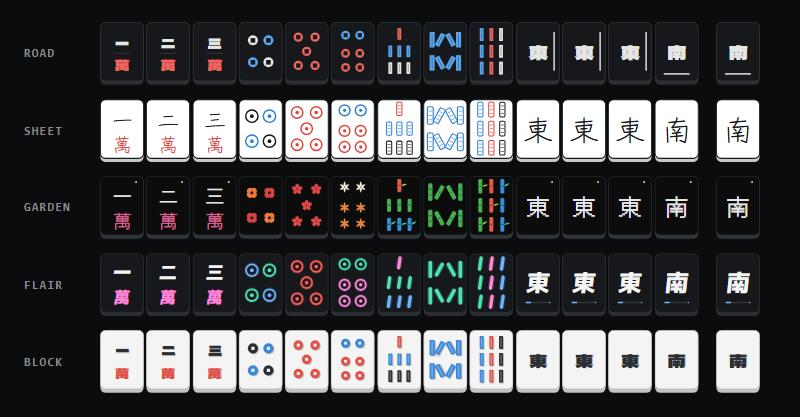
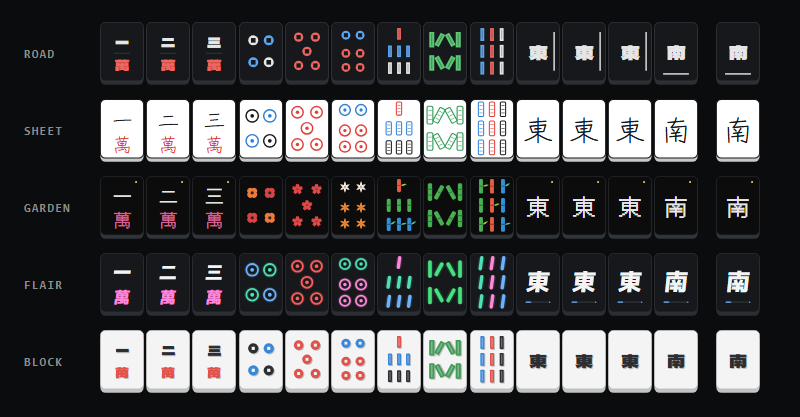
All-green 2, 3, 4, 6 and 8 sou in every set (v1.9.0)
The 2, 3, 4, 6 and 8 sou are now one colour, each set's own green (the
same green as its Green dragon), so a ryuuiisou (all green) hand looks
all green. They used to mix two colours, blue with white, black or teal.
The 1, 5, 7 and 9 sou keep their colours. Garden's 8 sou was already all
green and is unchanged; every other tile is byte-identical to v1.8.0.
README, preview.png and all-tiles.png updated to match.

diff --git a/lines-skin.js b/lines-skin.js
@@ -1,4 +1,4 @@
-/*! lines-tiles.js 1.8.0 -- animated mahjong tiles in the style of Lines. No dependencies.
+/*! lines-tiles.js 1.9.0 -- animated mahjong tiles in the style of Lines. No dependencies.
  *
  *   <script src="lines-tiles.js"></script>
  *   <lines-tile set="flair" tile="5p"></lines-tile>                    one tile
@@ -33,7 +33,7 @@
 (function (root) {
   "use strict";
 
-  var VERSION = "1.8.0";
+  var VERSION = "1.9.0";
   var KANJI = ["\u4e00", "\u4e8c", "\u4e09", "\u56db", "\u4e94", "\u516d", "\u4e03", "\u516b", "\u4e5d"];
   var HON = ["\u6771", "\u5357", "\u897f", "\u5317", "\u767d", "\u767c", "\u4e2d"];
   var MAN = "\u842c";
@@ -122,6 +122,10 @@
   }
   function delay(i, period) { return "animation-delay:-" + n2((i * 0.37) % (period || 2)) + "s"; }
   function roleColour(c, role, red) { return red ? c.red : c.roles[role]; }
+  // The 2, 3, 4, 6 and 8 sou are all green, in the set's own green (its Green dragon's), so that with
+  // the Green dragon they make ryuuiisou ("all green"); the other sou keep their traditional colours.
+  var ALL_GREEN = { 2: true, 3: true, 4: true, 6: true, 8: true };
+  function stickColour(c, t, role) { return t.red ? c.red : ALL_GREEN[t.n] ? c.green : c.roles[role]; }
   function E(cx, cy, rx, ry, o) { o = o || {}; return "<ellipse" + at(merge({ cx: cx, cy: cy, rx: rx, ry: ry }, common(o))) + "/>"; }
   // A stick from its lower end (x1, y1) to its upper end (x2, y2), as [x, y, length, role, turn, width].
   function stickAt(x1, y1, x2, y2, role, width) {
@@ -192,7 +196,7 @@
     inset: 0.88,                      // the marks are drawn at 88% around the centre: room to breathe
     rim: 0.4,                         // opacity of the light that laps the rim
     c: { face: "#16181b", edge: "#2b2e33", border: "#3a3d42", bw: 1, backFace: "#16181b",
-         roles: { B: "#e6e6e6", G: "#5aa7f0", R: "#ef6560" }, red: "#ef6560", ink: "#e6e6e6", shrub: "#4f9a5a" },
+         roles: { B: "#e6e6e6", G: "#5aa7f0", R: "#ef6560" }, red: "#ef6560", green: "#5bc874", ink: "#e6e6e6", shrub: "#4f9a5a" },
     p: function (t, c) {
       if (t.n === 1) {
         var col = t.red ? c.red : c.ink, dx = n2(Math.sqrt(21.5 * 21.5 - 12 * 12));
@@ -211,7 +215,7 @@
             bib: c.face, beak: "#efc84a", eye: c.face, legs: c.ink, feet: c.red }), { cls: "lt-hop" });   // a dark beak vanished into the tile
       }
       return SOU[t.n].map(function (b) {
-        var col = roleColour(c, b[3], t.red), x = b[0], y = b[1], h = b[2];
+        var col = stickColour(c, t, b[3]), x = b[0], y = b[1], h = b[2];
         var bar = R(x - 3, y - h / 2, 6, h, { fill: col }) +
           P("M " + x + " " + n2(y - h / 2 + 2.5) + " V " + n2(y + h / 2 - 2.5), { stroke: c.face, sw: 0.8, op: 0.6 });
         return placeStick(bar, b);
@@ -228,7 +232,7 @@
         var d = ["M 55 10 V 70", "M 10 75 H 50", "M 5 10 V 70", "M 10 5 H 50"][n - 1];
         return P(d, { stroke: c.ink, sw: 2.6, op: 0.85 }) + T(30, 40, HON[n - 1], { font: FONT.dela, size: 29, fill: c.ink });
       }
-      var col = n === 6 ? "#5bc874" : c.red;
+      var col = n === 6 ? c.green : c.red;
       return T(30, 38, HON[n - 1], { font: FONT.dela, size: 29, fill: col }) + P("M 19 66 H 41", { stroke: col, sw: 1.4, op: 0.6 });
     },
     back: function (c) {
@@ -242,7 +246,7 @@
   S.sheet = {
     fonts: ["zen"],
     c: { face: "#ffffff", edge: "#c9c9c9", border: "#16181b", bw: 1.4,
-         roles: { B: "#16181b", G: "#2f7fd6", R: "#e0403a" }, red: "#e0403a" },
+         roles: { B: "#16181b", G: "#2f7fd6", R: "#e0403a" }, red: "#e0403a", green: "#2e9b55" },
     p: function (t, c) {
       if (t.n === 1) {
         return G(C(30, 40, 18, { stroke: "#16181b", sw: 2.4 }) + C(30, 40, 11, { stroke: "#2f7fd6", sw: 1.8 }) +
@@ -262,7 +266,7 @@
             bib: ink, beak: ink, eye: ink, legs: ink, feet: c.red }, { line: ink, lw: 1.2 }), { cls: "lt-boil" });
       }
       return SOU[t.n].map(function (b, i) {
-        var col = roleColour(c, b[3], t.red), x = b[0], y = b[1], h = b[2];
+        var col = stickColour(c, t, b[3]), x = b[0], y = b[1], h = b[2];
         var inner = R(x - 3.6, y - h / 2, 7.2, h, { rx: 1.6, stroke: col, sw: 1.4 });
         for (var k = -1; k <= 1; k++) inner += R(x - 2.2, y + k * h / 4 - 0.4, 4.4, 0.8, { fill: col });
         inner = G(inner, { cls: "lt-boil", st: delay(i, 0.66) });
@@ -275,7 +279,7 @@
         G(T(30, 61, MAN, { font: FONT.zen, size: 26, fill: c.red }), { cls: "lt-boil", st: "animation-delay:-.3s" });
     },
     z: function (t, c) {
-      var col = t.n === 6 ? "#2e9b55" : t.n === 7 ? c.red : "#16181b";
+      var col = t.n === 6 ? c.green : t.n === 7 ? c.red : "#16181b";
       return G(T(30, 41, HON[t.n - 1], { font: FONT.zen, size: 38, fill: col }), { cls: "lt-boil" });
     },
     back: function () {
@@ -360,7 +364,7 @@
   S.garden = {
     fonts: ["dot"],
     c: { face: "#0c0c0c", edge: "#31353a", border: "#2b2e33", bw: 1, backFace: "#101a14",
-         roles: { B: "#7b84d6", G: "#4fae86", R: "#d0628f" }, red: "#e04848", centre: "#f0d27a",
+         roles: { B: "#7b84d6", G: "#4fae86", R: "#d0628f" }, red: "#e04848", green: "#6fd07f", centre: "#f0d27a",
          // pin n -> [flower, colour for each traditional place B / G / R]; flat colours, no shine
          bed: {
            1: ["sunflower", { B: "#f1b52e", G: "#f1b52e", R: "#f1b52e" }],
@@ -394,7 +398,8 @@
             feet: c.red }), { cls: "lt-hop" });
       }
       return SOU[t.n].map(function (b, i) {
-        var col = t.red ? c.stem.red : c.stem[b[3]], x = b[0], y = b[1], h = b[2], top = y - h / 2;
+        // the all-green sou (2 3 4 6 8) are all green stalks
+        var col = t.red ? c.stem.red : c.stem[ALL_GREEN[t.n] ? "G" : b[3]], x = b[0], y = b[1], h = b[2], top = y - h / 2;
         var s = R(x - 2.7, top, 5.4, h, { rx: 1.8, fill: col[0] }) +
           R(x - 1.6, top + 1.4, 1.1, h - 2.8, { rx: 0.55, fill: col[2], op: 0.15 });  // a faint light down one side
         var joints = h >= 22 ? 2 : 1;
@@ -416,7 +421,7 @@
         R(48, 7, 2.4, 2.4, { fill: c.centre, cls: "lt-twinkle" });
     },
     z: function (t, c) {
-      var col = t.n === 6 ? "#6fd07f" : t.n === 7 ? c.red : "#e8e8e8";
+      var col = t.n === 6 ? c.green : t.n === 7 ? c.red : "#e8e8e8";
       return T(30, 41, HON[t.n - 1], { font: FONT.dot, size: 32, fill: col }) + R(48, 7, 2.4, 2.4, { fill: c.centre, cls: "lt-twinkle" });
     },
     back: function () {               // bamboo leaves on dark green
@@ -439,7 +444,7 @@
     fonts: ["mplus"],
     sheen: 0.07,                      // opacity of the light band that crosses the tile
     c: { face: "#16181b", edge: "#2a2d33", border: "#31353a", bw: 1,
-         roles: { B: "#6cb2ff", G: "#4fe0b6", R: "#ff86d9" }, red: "#ff5c5c", ink: "#f4f4f4", accent: "#8fdcff" },
+         roles: { B: "#6cb2ff", G: "#4fe0b6", R: "#ff86d9" }, red: "#ff5c5c", green: "#46e07f", ink: "#f4f4f4", accent: "#8fdcff" },
     p: function (t, c) {
       function ring(x, y, r, col, sw) {
         return C(x, y, r, { stroke: col, sw: sw + 3, op: 0.16 }) + C(x, y, r, { stroke: col, sw: sw });
@@ -461,7 +466,7 @@
             bib: c.roles.R, beak: "#efc84a", eye: c.accent, legs: c.accent, feet: c.red }, { line: c.accent, lw: 1.6, glow: c.accent }), { cls: "lt-hop" });
       }
       return SOU[t.n].map(function (b) {
-        var col = roleColour(c, b[3], t.red), x = b[0], y = b[1], h = b[2];
+        var col = stickColour(c, t, b[3]), x = b[0], y = b[1], h = b[2];
         var lean = t.n === 8 ? b[4] : b[4] || 8;   // a slight forward lean; 8 sou keeps its real shape
         return placeStick(R(x - 4.2, y - h / 2, 8.4, h, { rx: 4.2, fill: col, op: 0.16 }) +
           R(x - 2.3, y - h / 2, 4.6, h, { rx: 2.3, fill: col }), t.n === 8 ? b.slice(0, 5).concat(1.1) : b, lean);   // 8 sou: slimmer x1.1
@@ -472,7 +477,7 @@
         T(30, 60, MAN, { font: FONT.mplus, weight: 800, size: 22, fill: c.roles.R, tf: skew(30, 60, -6) });
     },
     z: function (t, c) {
-      var col = t.n === 6 ? "#46e07f" : t.n === 7 ? c.red : c.ink, line = t.n <= 4 ? c.roles.B : col;
+      var col = t.n === 6 ? c.green : t.n === 7 ? c.red : c.ink, line = t.n <= 4 ? c.roles.B : col;
       return T(30, 39, HON[t.n - 1], { font: FONT.mplus, weight: 800, size: 31, fill: col, tf: skew(30, 39, -6) }) +
         P("M 14 67 H 46", { stroke: "#31353a", sw: 2, lc: "round" }) +
         P("M 14 67 H 46", { stroke: line, sw: 2, lc: "round", pl: 100, dash: "18 82", cls: "lt-lap" });
@@ -493,7 +498,7 @@
     fonts: ["dela"],
     inset: 0.88,
     c: { face: "#f4f4f4", edge: "#c4c4c4", border: "#b4b4b4", bw: 1, backFace: "#cfd3d6", side: "#bdbdbd", depth: 1.5,
-         roles: { B: "#2b2e33", G: "#3a86d8", R: "#e0524a" }, red: "#e0524a" },
+         roles: { B: "#2b2e33", G: "#3a86d8", R: "#e0524a" }, red: "#e0524a", green: "#3f9a55" },
     p: function (t, c) {
       var d = c.depth, sides = "", tops = "";
       var list = t.n === 1 ? [[30, 40, 17, t.red ? "R" : "B"]] : PIN[t.n];
@@ -517,7 +522,7 @@
       }
       var sides = "", tops = "";
       SOU[t.n].forEach(function (b) {
-        var col = roleColour(c, b[3], t.red), x = b[0], y = b[1], h = b[2];
+        var col = stickColour(c, t, b[3]), x = b[0], y = b[1], h = b[2];
         sides += placeStick(R(x - 3.1 + d, y - h / 2 + d, 6.2, h, { rx: 1, fill: c.side }), b);
         tops += placeStick(R(x - 3.1, y - h / 2, 6.2, h, { rx: 1, fill: col }) +
           R(x - 1, y - h / 2 + 2, 2, h - 4, { rx: 1, fill: "#ffffff", op: 0.3 }), b);
@@ -533,7 +538,7 @@
     },
     z: function (t, c) {
       var d = 1.2;
-      var col = t.n === 6 ? "#3f9a55" : t.n === 7 ? c.red : c.roles.B;
+      var col = t.n === 6 ? c.green : t.n === 7 ? c.red : c.roles.B;
       return G(T(30 + d, 41 + d, HON[t.n - 1], { font: FONT.dela, size: 28, fill: c.side }), { cls: "lt-breath" }) +
         T(30, 41, HON[t.n - 1], { font: FONT.dela, size: 28, fill: col });
     },

diff --git a/lines-tiles.js b/lines-tiles.js
@@ -1,4 +1,4 @@
-/*! lines-tiles.js 1.8.0 -- animated mahjong tiles in the style of Lines. No dependencies.
+/*! lines-tiles.js 1.9.0 -- animated mahjong tiles in the style of Lines. No dependencies.
  *
  *   <script src="lines-tiles.js"></script>
  *   <lines-tile set="flair" tile="5p"></lines-tile>                    one tile
@@ -33,7 +33,7 @@
 (function (root) {
   "use strict";
 
-  var VERSION = "1.8.0";
+  var VERSION = "1.9.0";
   var KANJI = ["\u4e00", "\u4e8c", "\u4e09", "\u56db", "\u4e94", "\u516d", "\u4e03", "\u516b", "\u4e5d"];
   var HON = ["\u6771", "\u5357", "\u897f", "\u5317", "\u767d", "\u767c", "\u4e2d"];
   var MAN = "\u842c";
@@ -122,6 +122,10 @@
   }
   function delay(i, period) { return "animation-delay:-" + n2((i * 0.37) % (period || 2)) + "s"; }
   function roleColour(c, role, red) { return red ? c.red : c.roles[role]; }
+  // The 2, 3, 4, 6 and 8 sou are all green, in the set's own green (its Green dragon's), so that with
+  // the Green dragon they make ryuuiisou ("all green"); the other sou keep their traditional colours.
+  var ALL_GREEN = { 2: true, 3: true, 4: true, 6: true, 8: true };
+  function stickColour(c, t, role) { return t.red ? c.red : ALL_GREEN[t.n] ? c.green : c.roles[role]; }
   function E(cx, cy, rx, ry, o) { o = o || {}; return "<ellipse" + at(merge({ cx: cx, cy: cy, rx: rx, ry: ry }, common(o))) + "/>"; }
   // A stick from its lower end (x1, y1) to its upper end (x2, y2), as [x, y, length, role, turn, width].
   function stickAt(x1, y1, x2, y2, role, width) {
@@ -192,7 +196,7 @@
     inset: 0.88,                      // the marks are drawn at 88% around the centre: room to breathe
     rim: 0.4,                         // opacity of the light that laps the rim
     c: { face: "#16181b", edge: "#2b2e33", border: "#3a3d42", bw: 1, backFace: "#16181b",
-         roles: { B: "#e6e6e6", G: "#5aa7f0", R: "#ef6560" }, red: "#ef6560", ink: "#e6e6e6", shrub: "#4f9a5a" },
+         roles: { B: "#e6e6e6", G: "#5aa7f0", R: "#ef6560" }, red: "#ef6560", green: "#5bc874", ink: "#e6e6e6", shrub: "#4f9a5a" },
     p: function (t, c) {
       if (t.n === 1) {
         var col = t.red ? c.red : c.ink, dx = n2(Math.sqrt(21.5 * 21.5 - 12 * 12));
@@ -211,7 +215,7 @@
             bib: c.face, beak: "#efc84a", eye: c.face, legs: c.ink, feet: c.red }), { cls: "lt-hop" });   // a dark beak vanished into the tile
       }
       return SOU[t.n].map(function (b) {
-        var col = roleColour(c, b[3], t.red), x = b[0], y = b[1], h = b[2];
+        var col = stickColour(c, t, b[3]), x = b[0], y = b[1], h = b[2];
         var bar = R(x - 3, y - h / 2, 6, h, { fill: col }) +
           P("M " + x + " " + n2(y - h / 2 + 2.5) + " V " + n2(y + h / 2 - 2.5), { stroke: c.face, sw: 0.8, op: 0.6 });
         return placeStick(bar, b);
@@ -228,7 +232,7 @@
         var d = ["M 55 10 V 70", "M 10 75 H 50", "M 5 10 V 70", "M 10 5 H 50"][n - 1];
         return P(d, { stroke: c.ink, sw: 2.6, op: 0.85 }) + T(30, 40, HON[n - 1], { font: FONT.dela, size: 29, fill: c.ink });
       }
-      var col = n === 6 ? "#5bc874" : c.red;
+      var col = n === 6 ? c.green : c.red;
       return T(30, 38, HON[n - 1], { font: FONT.dela, size: 29, fill: col }) + P("M 19 66 H 41", { stroke: col, sw: 1.4, op: 0.6 });
     },
     back: function (c) {
@@ -242,7 +246,7 @@
   S.sheet = {
     fonts: ["zen"],
     c: { face: "#ffffff", edge: "#c9c9c9", border: "#16181b", bw: 1.4,
-         roles: { B: "#16181b", G: "#2f7fd6", R: "#e0403a" }, red: "#e0403a" },
+         roles: { B: "#16181b", G: "#2f7fd6", R: "#e0403a" }, red: "#e0403a", green: "#2e9b55" },
     p: function (t, c) {
       if (t.n === 1) {
         return G(C(30, 40, 18, { stroke: "#16181b", sw: 2.4 }) + C(30, 40, 11, { stroke: "#2f7fd6", sw: 1.8 }) +
@@ -262,7 +266,7 @@
             bib: ink, beak: ink, eye: ink, legs: ink, feet: c.red }, { line: ink, lw: 1.2 }), { cls: "lt-boil" });
       }
       return SOU[t.n].map(function (b, i) {
-        var col = roleColour(c, b[3], t.red), x = b[0], y = b[1], h = b[2];
+        var col = stickColour(c, t, b[3]), x = b[0], y = b[1], h = b[2];
         var inner = R(x - 3.6, y - h / 2, 7.2, h, { rx: 1.6, stroke: col, sw: 1.4 });
         for (var k = -1; k <= 1; k++) inner += R(x - 2.2, y + k * h / 4 - 0.4, 4.4, 0.8, { fill: col });
         inner = G(inner, { cls: "lt-boil", st: delay(i, 0.66) });
@@ -275,7 +279,7 @@
         G(T(30, 61, MAN, { font: FONT.zen, size: 26, fill: c.red }), { cls: "lt-boil", st: "animation-delay:-.3s" });
     },
     z: function (t, c) {
-      var col = t.n === 6 ? "#2e9b55" : t.n === 7 ? c.red : "#16181b";
+      var col = t.n === 6 ? c.green : t.n === 7 ? c.red : "#16181b";
       return G(T(30, 41, HON[t.n - 1], { font: FONT.zen, size: 38, fill: col }), { cls: "lt-boil" });
     },
     back: function () {
@@ -360,7 +364,7 @@
   S.garden = {
     fonts: ["dot"],
     c: { face: "#0c0c0c", edge: "#31353a", border: "#2b2e33", bw: 1, backFace: "#101a14",
-         roles: { B: "#7b84d6", G: "#4fae86", R: "#d0628f" }, red: "#e04848", centre: "#f0d27a",
+         roles: { B: "#7b84d6", G: "#4fae86", R: "#d0628f" }, red: "#e04848", green: "#6fd07f", centre: "#f0d27a",
          // pin n -> [flower, colour for each traditional place B / G / R]; flat colours, no shine
          bed: {
            1: ["sunflower", { B: "#f1b52e", G: "#f1b52e", R: "#f1b52e" }],
@@ -394,7 +398,8 @@
             feet: c.red }), { cls: "lt-hop" });
       }
       return SOU[t.n].map(function (b, i) {
-        var col = t.red ? c.stem.red : c.stem[b[3]], x = b[0], y = b[1], h = b[2], top = y - h / 2;
+        // the all-green sou (2 3 4 6 8) are all green stalks
+        var col = t.red ? c.stem.red : c.stem[ALL_GREEN[t.n] ? "G" : b[3]], x = b[0], y = b[1], h = b[2], top = y - h / 2;
         var s = R(x - 2.7, top, 5.4, h, { rx: 1.8, fill: col[0] }) +
           R(x - 1.6, top + 1.4, 1.1, h - 2.8, { rx: 0.55, fill: col[2], op: 0.15 });  // a faint light down one side
         var joints = h >= 22 ? 2 : 1;
@@ -416,7 +421,7 @@
         R(48, 7, 2.4, 2.4, { fill: c.centre, cls: "lt-twinkle" });
     },
     z: function (t, c) {
-      var col = t.n === 6 ? "#6fd07f" : t.n === 7 ? c.red : "#e8e8e8";
+      var col = t.n === 6 ? c.green : t.n === 7 ? c.red : "#e8e8e8";
       return T(30, 41, HON[t.n - 1], { font: FONT.dot, size: 32, fill: col }) + R(48, 7, 2.4, 2.4, { fill: c.centre, cls: "lt-twinkle" });
     },
     back: function () {               // bamboo leaves on dark green
@@ -439,7 +444,7 @@
     fonts: ["mplus"],
     sheen: 0.07,                      // opacity of the light band that crosses the tile
     c: { face: "#16181b", edge: "#2a2d33", border: "#31353a", bw: 1,
-         roles: { B: "#6cb2ff", G: "#4fe0b6", R: "#ff86d9" }, red: "#ff5c5c", ink: "#f4f4f4", accent: "#8fdcff" },
+         roles: { B: "#6cb2ff", G: "#4fe0b6", R: "#ff86d9" }, red: "#ff5c5c", green: "#46e07f", ink: "#f4f4f4", accent: "#8fdcff" },
     p: function (t, c) {
       function ring(x, y, r, col, sw) {
         return C(x, y, r, { stroke: col, sw: sw + 3, op: 0.16 }) + C(x, y, r, { stroke: col, sw: sw });
@@ -461,7 +466,7 @@
             bib: c.roles.R, beak: "#efc84a", eye: c.accent, legs: c.accent, feet: c.red }, { line: c.accent, lw: 1.6, glow: c.accent }), { cls: "lt-hop" });
       }
       return SOU[t.n].map(function (b) {
-        var col = roleColour(c, b[3], t.red), x = b[0], y = b[1], h = b[2];
+        var col = stickColour(c, t, b[3]), x = b[0], y = b[1], h = b[2];
         var lean = t.n === 8 ? b[4] : b[4] || 8;   // a slight forward lean; 8 sou keeps its real shape
         return placeStick(R(x - 4.2, y - h / 2, 8.4, h, { rx: 4.2, fill: col, op: 0.16 }) +
           R(x - 2.3, y - h / 2, 4.6, h, { rx: 2.3, fill: col }), t.n === 8 ? b.slice(0, 5).concat(1.1) : b, lean);   // 8 sou: slimmer x1.1
@@ -472,7 +477,7 @@
         T(30, 60, MAN, { font: FONT.mplus, weight: 800, size: 22, fill: c.roles.R, tf: skew(30, 60, -6) });
     },
     z: function (t, c) {
-      var col = t.n === 6 ? "#46e07f" : t.n === 7 ? c.red : c.ink, line = t.n <= 4 ? c.roles.B : col;
+      var col = t.n === 6 ? c.green : t.n === 7 ? c.red : c.ink, line = t.n <= 4 ? c.roles.B : col;
       return T(30, 39, HON[t.n - 1], { font: FONT.mplus, weight: 800, size: 31, fill: col, tf: skew(30, 39, -6) }) +
         P("M 14 67 H 46", { stroke: "#31353a", sw: 2, lc: "round" }) +
         P("M 14 67 H 46", { stroke: line, sw: 2, lc: "round", pl: 100, dash: "18 82", cls: "lt-lap" });
@@ -493,7 +498,7 @@
     fonts: ["dela"],
     inset: 0.88,
     c: { face: "#f4f4f4", edge: "#c4c4c4", border: "#b4b4b4", bw: 1, backFace: "#cfd3d6", side: "#bdbdbd", depth: 1.5,
-         roles: { B: "#2b2e33", G: "#3a86d8", R: "#e0524a" }, red: "#e0524a" },
+         roles: { B: "#2b2e33", G: "#3a86d8", R: "#e0524a" }, red: "#e0524a", green: "#3f9a55" },
     p: function (t, c) {
       var d = c.depth, sides = "", tops = "";
       var list = t.n === 1 ? [[30, 40, 17, t.red ? "R" : "B"]] : PIN[t.n];
@@ -517,7 +522,7 @@
       }
       var sides = "", tops = "";
       SOU[t.n].forEach(function (b) {
-        var col = roleColour(c, b[3], t.red), x = b[0], y = b[1], h = b[2];
+        var col = stickColour(c, t, b[3]), x = b[0], y = b[1], h = b[2];
         sides += placeStick(R(x - 3.1 + d, y - h / 2 + d, 6.2, h, { rx: 1, fill: c.side }), b);
         tops += placeStick(R(x - 3.1, y - h / 2, 6.2, h, { rx: 1, fill: col }) +
           R(x - 1, y - h / 2 + 2, 2, h - 4, { rx: 1, fill: "#ffffff", op: 0.3 }), b);
@@ -533,7 +538,7 @@
     },
     z: function (t, c) {
       var d = 1.2;
-      var col = t.n === 6 ? "#3f9a55" : t.n === 7 ? c.red : c.roles.B;
+      var col = t.n === 6 ? c.green : t.n === 7 ? c.red : c.roles.B;
       return G(T(30 + d, 41 + d, HON[t.n - 1], { font: FONT.dela, size: 28, fill: c.side }), { cls: "lt-breath" }) +
         T(30, 41, HON[t.n - 1], { font: FONT.dela, size: 28, fill: col });
     },

diff --git a/README.md b/README.md
@@ -8,13 +8,13 @@ Animated mahjong tiles in the style of **Lines**, in five sets:
 - **Flair** — neon on a dark tile: crisp marks over a soft, steady glow, and a slow sheen that crosses each tile now and then.
 - **Block** — the 3D view: every mark a softly extruded block on a light tile, the depth drifting as if the camera moved.
 
-In every set the 1 sou is a sparrow with a green wing and tail and red feet, as the traditional 1 sou bird is green and red, drawn in that set's style. The 8 sou has the classic layout: straight outer sticks, with the inner pair leaning right out to them, peaking at the top above and meeting at the bottom below. The White dragon is a blank tile in every set, as in riichi sets.
+In every set the 1 sou is a sparrow with a green wing and tail and red feet, as the traditional 1 sou bird is green and red, drawn in that set's style. The 8 sou has the classic layout: straight outer sticks, with the inner pair leaning right out to them, peaking at the top above and meeting at the bottom below. The White dragon is a blank tile in every set, as in riichi sets. The 2, 3, 4, 6 and 8 sou are all one green, the same green as the set's Green dragon, so a ryuuiisou (all green) hand looks all green.
 
 ![The same hand in all five sets](preview.png)
 
 Every tile of every set, side by side and still: [all-tiles.png](all-tiles.png) (all 38 tiles of each set, 190 in all).
 
-Every tile is live SVG drawn by one small script (`lines-tiles.js`, about 44 KB, 14 KB gzipped). No images, no dependencies, no build step. The motion is plain CSS.
+Every tile is live SVG drawn by one small script (`lines-tiles.js`, about 45 KB, 14 KB gzipped). No images, no dependencies, no build step. The motion is plain CSS.
 
 Open `index.html` for the live demo: every tile, a playable hand, and a box where you type a hand and see it drawn. Open `showcase.html` for an auto-playing, full-screen reel of the five sets.
 
@@ -23,7 +23,7 @@ Open `index.html` for the live demo: every tile, a playable hand, and a box wher
 `lines-skin.js` re-skins a page that already draws mahjong tiles, without changing any of its code. Add this line to each page that shows tiles (the review page, and the live-play page if it has one), anywhere in the HTML:
 
 ```html
-<script src="https://cdn.jsdelivr.net/gh/calicocowz/Mahjong-Animated-Tiles@v1.8.0/lines-skin.js" data-set="flair"></script>
+<script src="https://cdn.jsdelivr.net/gh/calicocowz/Mahjong-Animated-Tiles@v1.9.0/lines-skin.js" data-set="flair"></script>
 ```
 
 That's the whole install. How it works and what to know:
@@ -79,10 +79,10 @@ Changing an attribute later redraws the element.
 **2. Load it from a CDN, straight from this GitHub repo.** [jsDelivr](https://www.jsdelivr.com/) serves files from public GitHub repos, no upload needed:
 
 ```html
-<script src="https://cdn.jsdelivr.net/gh/calicocowz/Mahjong-Animated-Tiles@v1.8.0/lines-tiles.js"></script>
+<script src="https://cdn.jsdelivr.net/gh/calicocowz/Mahjong-Animated-Tiles@v1.9.0/lines-tiles.js"></script>
 ```
 
-`@v1.8.0` pins this version (the git tag `v1.8.0`), so a later change to the repo can never change a site that uses it. To move to a newer version, change the number.
+`@v1.9.0` pins this version (the git tag `v1.9.0`), so a later change to the repo can never change a site that uses it. To move to a newer version, change the number.
 
 **3. Use the demo as a page.** In the repo's *Settings → Pages*, choose *Deploy from a branch*, then `main` and `/ (root)`. The pages then go live at `https://calicocowz.github.io/Mahjong-Animated-Tiles/` (the demo) and `https://calicocowz.github.io/Mahjong-Animated-Tiles/showcase.html` (the showcase).
 
@@ -121,7 +121,7 @@ LinesTiles.parseHand("12m 3p")   // ["1m", "2m", null, "3p"]   (null = gap)
 LinesTiles.label("0p")           // "red 5 pin"
 LinesTiles.sets                  // ["road", "sheet", "garden", "flair", "block"]
 LinesTiles.tiles                 // every tile code, in order
-LinesTiles.version               // "1.8.0"
+LinesTiles.version               // "1.9.0"
 ```
 
 `svg`, `hand` and `parseHand` throw an `Error` on an unknown set, tile or notation.
